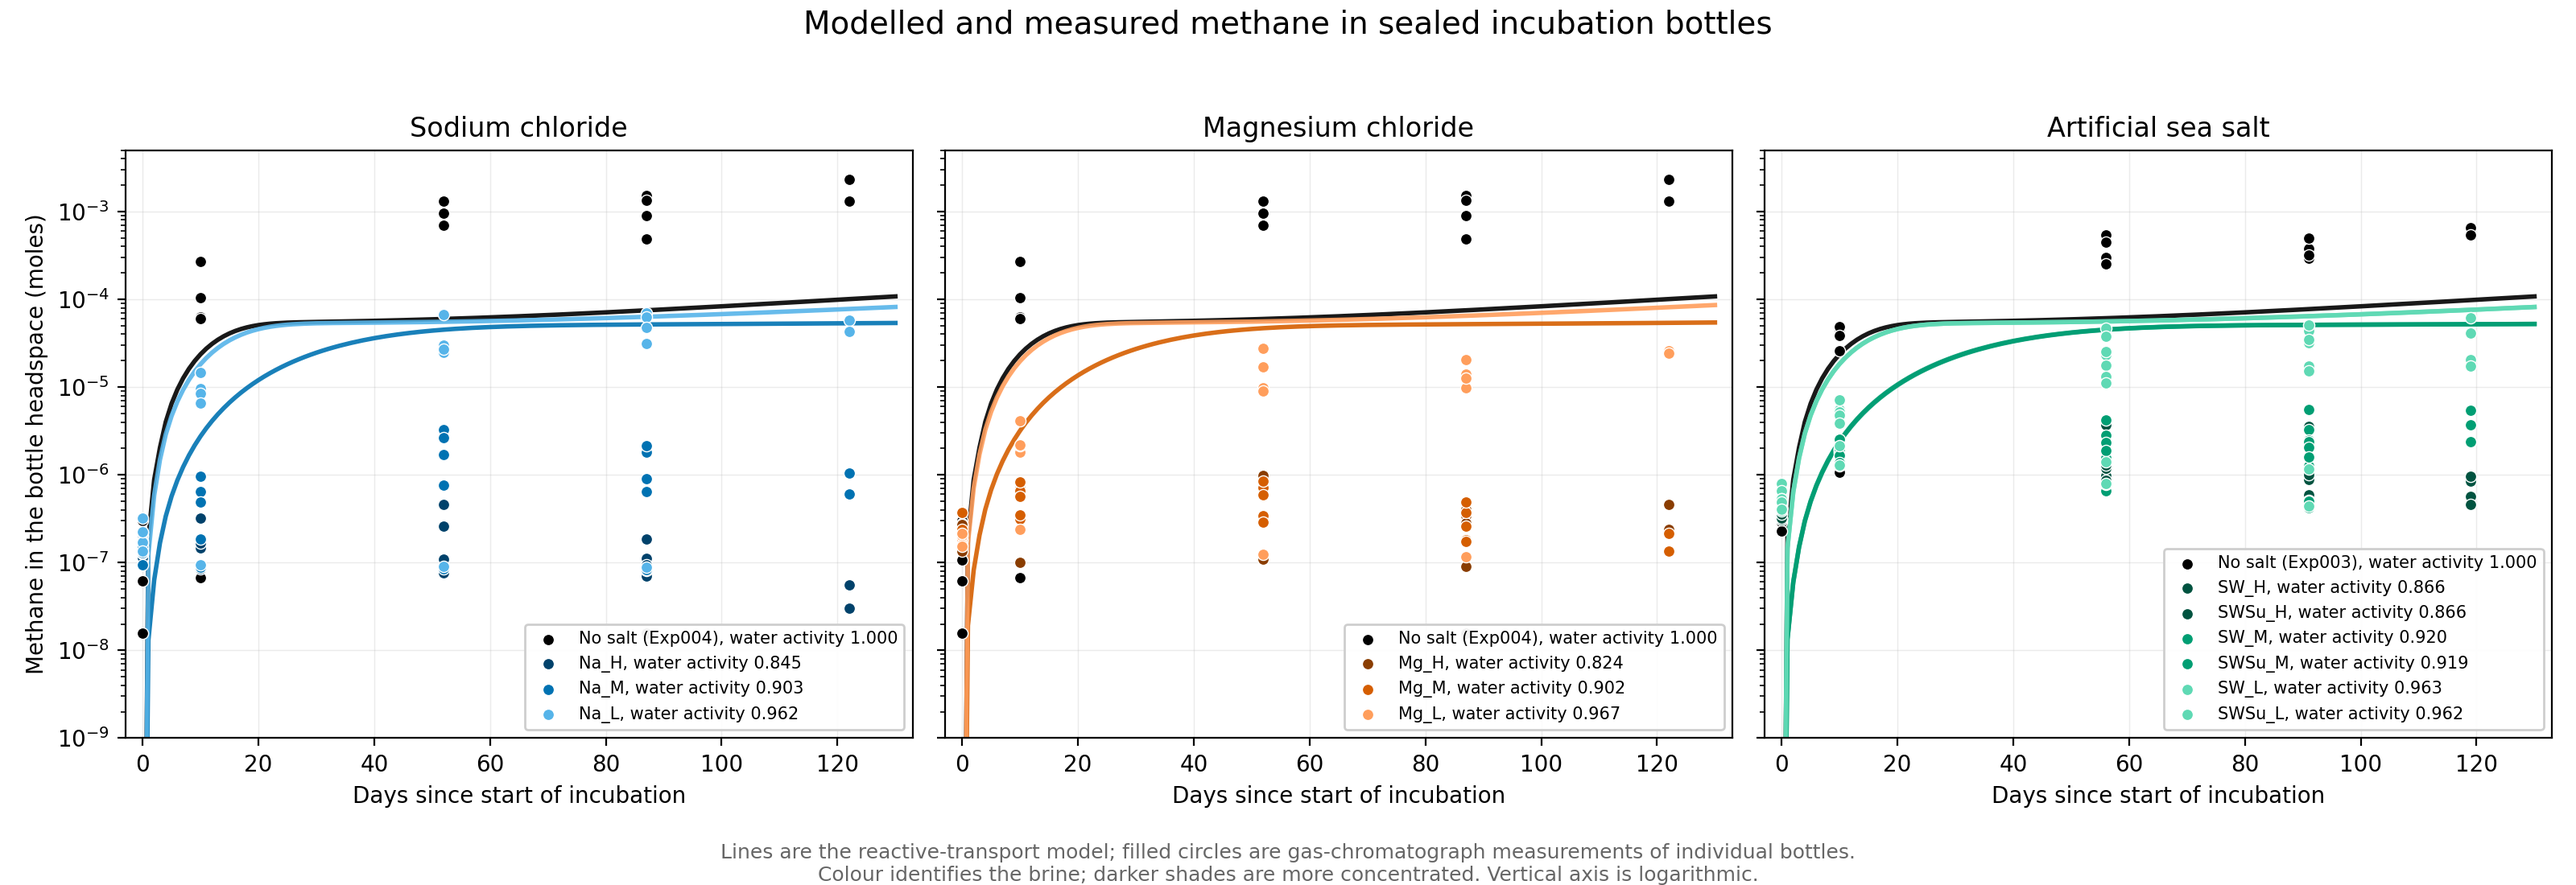
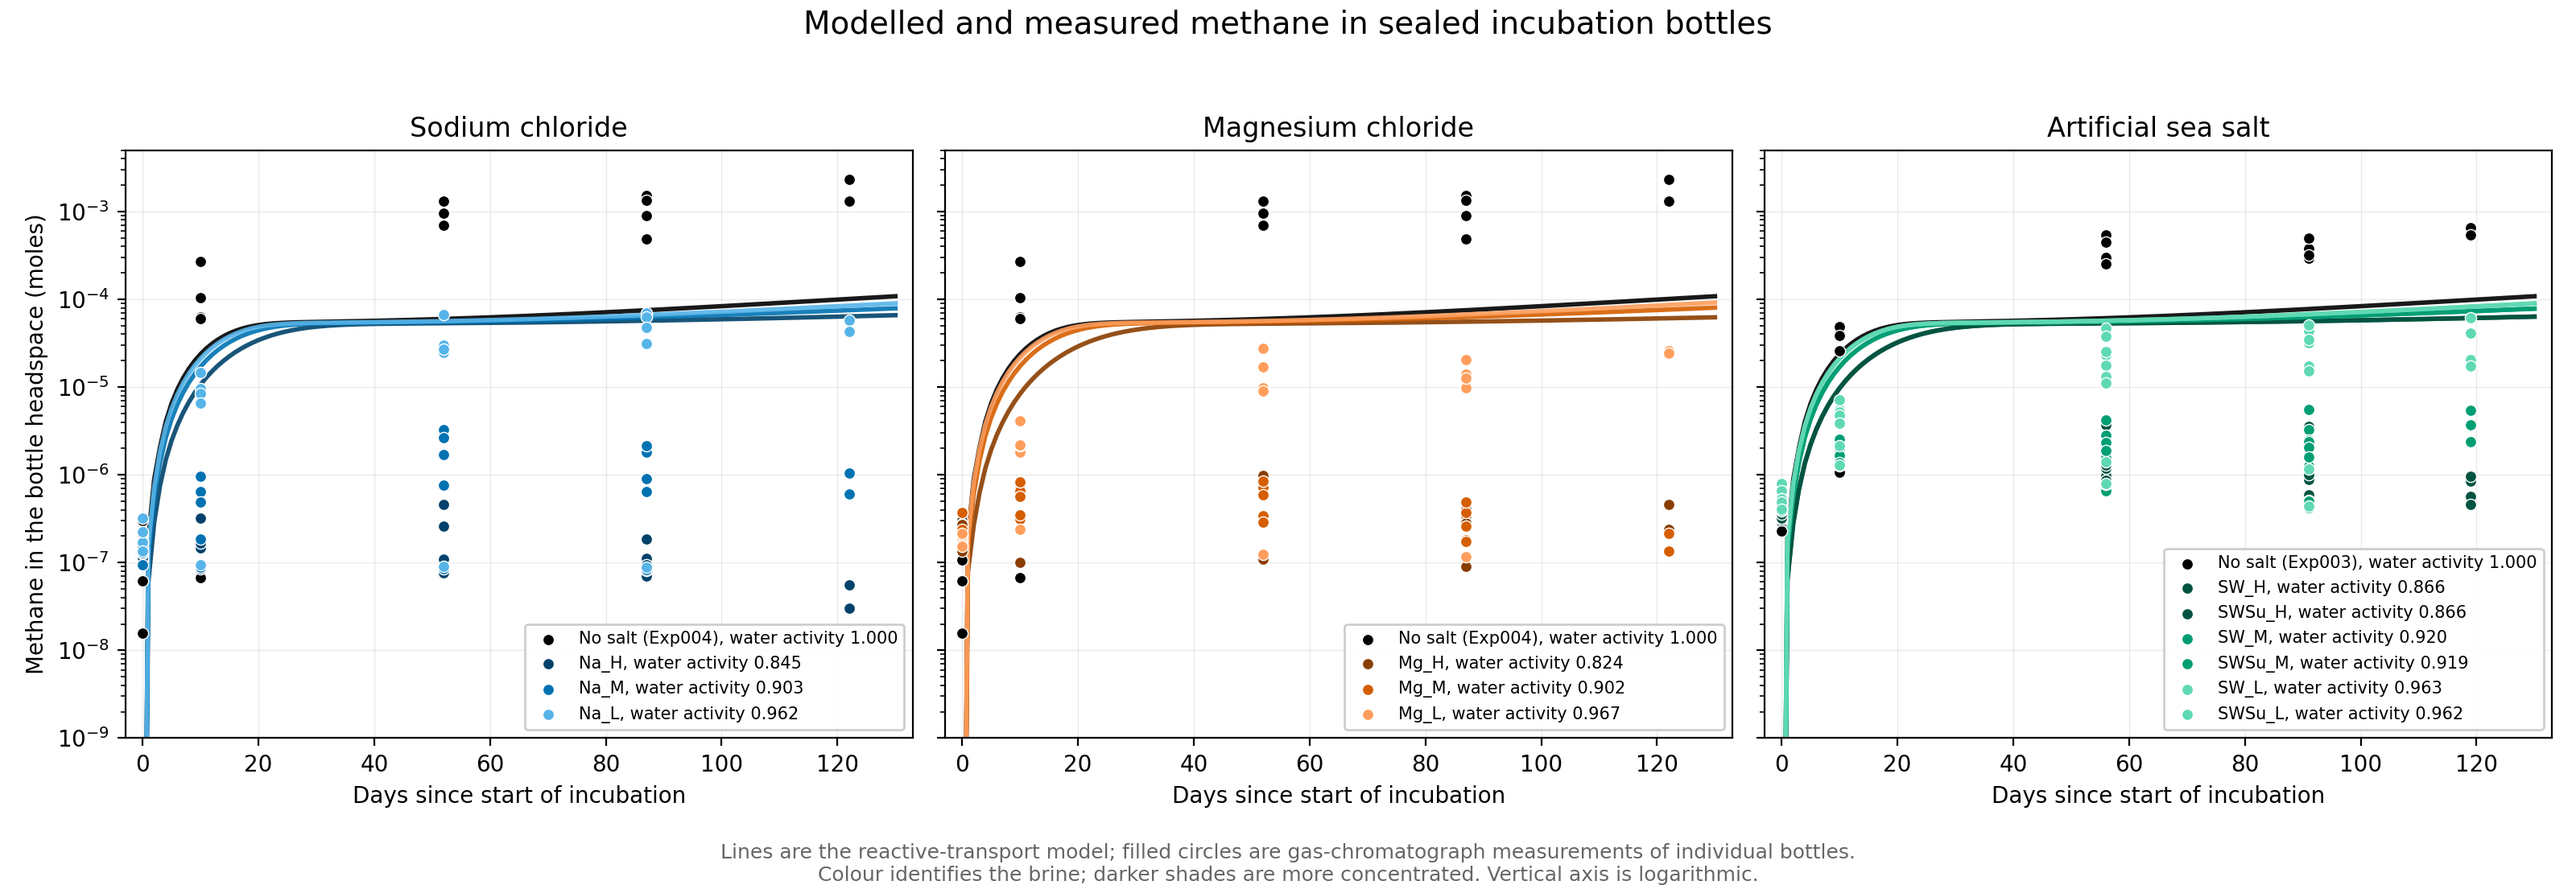
Widen a_w inhibition with a continuous ONE_MINUS_AW factor.
The 0.05-decade smoothstep was a cliff over ~0.90-1.00; osmoregulation
cost rises with (1-a_w) across the measured range. Default comparison decks
now use f=max(0,(a_w-a_crit)/(1-a_crit)) with a_crit=0.80.

Changed region(s): [[0.6875, 0.34, 1.0, 0.6182], [0.375, 0.34, 0.6875, 0.6182], [0.0625, 0.34, 0.375, 0.5564]]

diff --git a/src/pflotran_py/comparison/decks.py b/src/pflotran_py/comparison/decks.py
@@ -185,11 +185,21 @@ def main():
     parser.add_argument(
         "--aw-threshold",
         type=float,
-        default=0.95,
+        default=0.80,
         help=(
-            "Water activity at which the sandboxes centre their smoothstep. "
-            "Default 0.95 sits at the top of the measured salted range so "
-            "inhibition engages across Exp003/Exp004; it is not a methane fit."
+            "Critical water activity for the sandbox inhibition curve. With "
+            "ONE_MINUS_AW (default) this is a_crit where the rate hits zero; "
+            "with SMOOTHSTEP it centres the logistic. Default 0.80 sits just "
+            "below the driest measured bottle; it is not a methane fit."
+        ),
+    )
+    parser.add_argument(
+        "--aw-inhibition-type",
+        choices=("ONE_MINUS_AW", "SMOOTHSTEP", "THRESHOLD"),
+        default="ONE_MINUS_AW",
+        help=(
+            "Shape of the a_w rate factor. ONE_MINUS_AW is continuous in "
+            "(1-a_w); SMOOTHSTEP is a log10 logistic (interval 0.20)."
         ),
     )
     parser.add_argument(
@@ -318,6 +328,7 @@ def main():
         output_dir=args.output_dir,
         final_time_days=args.final_time_days,
         aw_threshold=args.aw_threshold,
+        aw_inhibition_type=args.aw_inhibition_type,
         **extra,
     )
 
@@ -332,7 +343,14 @@ def main():
         )
 
     lowest = result["Measured Water Activity"].min()
-    if lowest > args.aw_threshold:
+    if args.aw_inhibition_type == "ONE_MINUS_AW":
+        print()
+        print(
+            f"Sandbox ONE_MINUS_AW with a_crit={args.aw_threshold}: rate factor "
+            f"(a_w - a_crit)/(1 - a_crit) across the measured range "
+            f"(driest = {lowest:.3f})."
+        )
+    elif lowest > args.aw_threshold:
         print()
         print(
             f"Note: the driest batch sits at water activity {lowest:.3f}, above the "

diff --git a/src/pflotran_py/generator/pflotran_generator.py b/src/pflotran_py/generator/pflotran_generator.py
@@ -248,11 +248,13 @@ class PFLOTRANGenerator:
         # only for attribution runs that need the old dead-parallel behaviour.
         aw_sandbox_replaces_network_methanogenesis=True,
         # --- Reaction sandbox: water activity inhibition ---
-        # Threshold sits at the top of the measured salted a_w range so the
-        # smoothstep engages across Exp003/Exp004. Not fitted to methane.
-        aw_threshold=0.95,
+        # ONE_MINUS_AW maps rate to max(0,(a_w - a_crit)/(1 - a_crit)), a
+        # continuous osmoregulation-style factor across the measured a_w
+        # range. a_crit = 0.80 sits just below the driest bottle (0.824) so
+        # nothing is forced to a hard numerical floor; not a methane fit.
+        aw_threshold=0.80,
         aw_rate_constant=None,  # unused when per-pathway rates are emitted
-        aw_inhibition_type="SMOOTHSTEP",
+        aw_inhibition_type="ONE_MINUS_AW",
         # When set, sandboxes use this a_w instead of PFLOTRAN's ideal Raoult
         # value. Comparison decks pass the meter-read a_w by default; the
         # computed PHREEQC/pitzer.dat value is opt-in (--use-computed-aw).
@@ -646,8 +648,9 @@ class PFLOTRANGenerator:
           AWINHIBITMETHYL  — methylotrophic
 
         Rate constants and half-saturations are taken from the same defaults
-        as the network reactions. Water-activity threshold and smoothstep /
-        threshold mode come from ``aw_threshold`` / ``aw_inhibition_type``.
+        as the network reactions. Water-activity threshold and inhibition
+        mode (ONE_MINUS_AW / SMOOTHSTEP / THRESHOLD) come from
+        ``aw_threshold`` / ``aw_inhibition_type``.
         """
         general = self.thresholds["general"]
         o2_inh = self.thresholds["o2_inhibition"]

diff --git a/tests/test_aw_inhibition_shape.py b/tests/test_aw_inhibition_shape.py
@@ -1,0 +1,40 @@
+"""Document the ONE_MINUS_AW rate factor used by the AWINHIBIT sandboxes.
+
+The Fortran implements f = max(0, (a_w - a_crit) / (1 - a_crit)). This test
+locks the Python-side expectation so a deck-default change cannot silently
+reintroduce a cliff without updating the documented shape.
+"""
+
+import pytest
+
+from pflotran_py.generator.bottle_generator import BottleGenerator
+
+
+def one_minus_aw(water_activity: float, a_crit: float) -> float:
+    if a_crit >= 1.0:
+        return 1.0
+    if water_activity <= a_crit:
+        return 0.0
+    return (water_activity - a_crit) / (1.0 - a_crit)
+
+
+@pytest.mark.parametrize(
+    "a_w,expected",
+    [
+        (1.0, 1.0),
+        (0.90, 0.5),
+        (0.80, 0.0),
+        (0.75, 0.0),
+        (0.8424, pytest.approx(0.212, abs=1e-3)),  # Mg_H Pitzer
+        (0.9127, pytest.approx(0.5635, abs=1e-3)),  # Na_M Pitzer
+    ],
+)
+def test_one_minus_aw_factors_at_a_crit_0_80(a_w, expected):
+    assert one_minus_aw(a_w, 0.80) == expected
+
+
+def test_comparison_default_emits_one_minus_aw():
+    gen = BottleGenerator(aw_threshold=0.80, aw_inhibition_type="ONE_MINUS_AW")
+    block = gen._build_reaction_sandbox()
+    assert "INHIBITION_TYPE ONE_MINUS_AW" in block
+    assert "WATER_ACTIVITY_THRESHOLD 0.8000" in block

diff --git a/README.md b/README.md
@@ -559,7 +559,8 @@ network Monod rate law (same rate constant, half-saturations, and O₂/Fe/H⁺
 inhibition) and multiplies by an a_w smoothstep. The network's three
 methane-producing `MICROBIAL_REACTION` blocks are omitted so the two do not
 double-produce methane. Comparison decks therefore use `--no-cl-inhibition`
-and `--aw-threshold 0.95` (top of the measured salted range; not a methane
+and `--aw-inhibition-type ONE_MINUS_AW --aw-threshold 0.80` (continuous
+`(a_w − a_crit)/(1 − a_crit)` across the measured range; not a methane
 fit), and pass each batch's **meter-read** water activity as
 `FIXED_WATER_ACTIVITY`. PHREEQC/`pitzer.dat` a_w computed from the weighed
 recipe is an independent oracle, not the default inhibition input: it is
@@ -578,7 +579,8 @@ python -m pflotran_py.comparison.brines --output data/incubation_batch_compositi
 #    AWINHIBIT sandboxes own methanogenesis (network Monod rates + a_w).
 #    Cl- Monod is off so salt is not double-counted.
 python -m pflotran_py.comparison.decks --output-dir decks \
-    --cellulose-hydrolysis --no-cl-inhibition --aw-threshold 0.95
+    --cellulose-hydrolysis --no-cl-inhibition \
+    --aw-inhibition-type ONE_MINUS_AW --aw-threshold 0.80
 
 # 3. Run them (needs the container image built; see Running PFLOTRAN above).
 python -m pflotran_py.comparison.run_decks --run-root runs --clean
